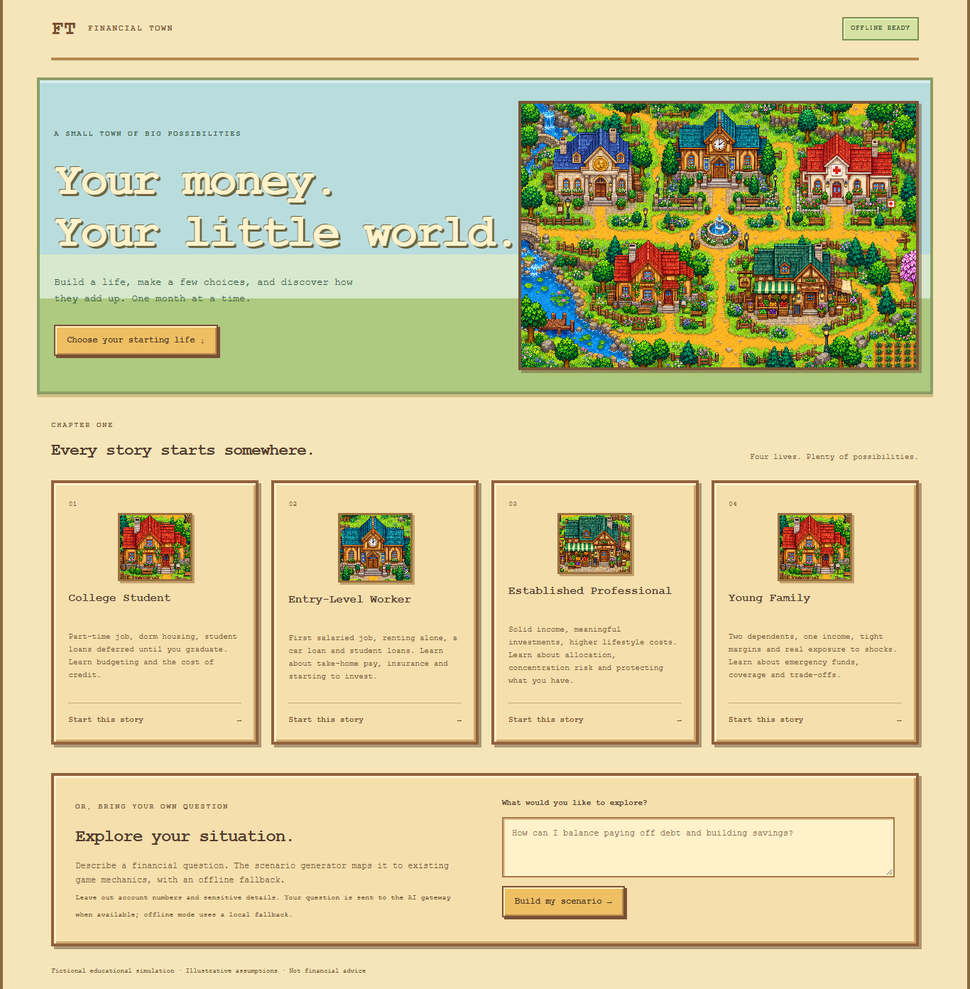
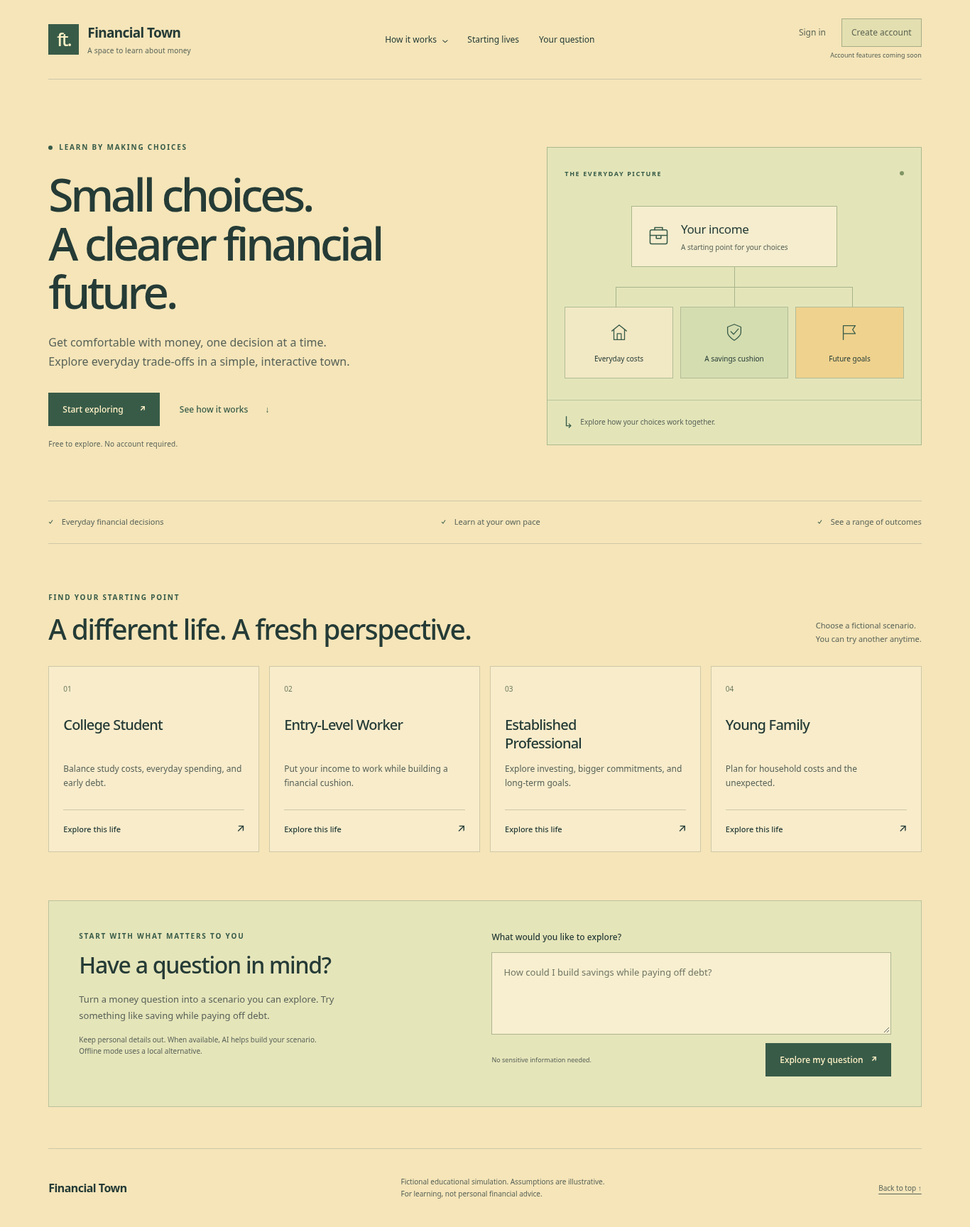
Simplify landing page with clear navigation and inactive account placeholders

diff --git a/src/styles/welcome.css b/src/styles/welcome.css
@@ -1,0 +1,17 @@
+/* Quiet, editorial landing page in the existing cream / sage / gold palette. */
+.welcome-page{--welcome-ink:#253b36;--welcome-muted:#596358;--welcome-line:#cec8a7;--welcome-paper:#f5e5b9;--welcome-green:#385b48;max-width:1600px;margin:auto;padding:0 clamp(22px,5vw,80px);background:var(--welcome-paper);color:var(--welcome-ink);font-family:Inter,ui-sans-serif,system-ui,-apple-system,BlinkMacSystemFont,'Segoe UI',sans-serif;min-height:100dvh;line-height:1.5;font-size:15px;-webkit-font-smoothing:antialiased}
+.welcome-page h1,.welcome-page h2,.welcome-page h3{font-family:inherit;font-weight:550;letter-spacing:-.04em;color:var(--welcome-ink)}
+.welcome-page p{line-height:1.7}.welcome-page a{text-decoration:none}.welcome-page button{font-family:inherit}.welcome-page :is(button,a,textarea):focus-visible{outline:3px solid var(--welcome-green);outline-offset:5px}.welcome-page :is(section,div)[id]{scroll-margin-top:24px}.welcome-skip{position:absolute;top:-100px;padding:12px;background:var(--welcome-green);color:#fff1c6;z-index:10}.welcome-skip:focus{top:10px}
+.welcome-header{min-height:112px;display:flex;align-items:center;gap:30px;border-bottom:1px solid var(--welcome-line)}.welcome-brand{display:flex;align-items:center;gap:12px;min-width:max-content;font-size:19px;font-weight:650;letter-spacing:-.6px}.welcome-brand small{display:block;margin-top:3px;font-size:10px;color:var(--welcome-muted);font-weight:400;letter-spacing:.2px}.welcome-logo{width:43px;height:43px;display:grid;place-items:center;border:1px solid var(--welcome-green);background:var(--welcome-green);color:#fff1c6;font-size:25px;letter-spacing:-2px;font-weight:500;line-height:1}.welcome-nav{display:flex;justify-content:center;align-items:center;gap:28px;flex:1}.welcome-nav-link{background:none;border:0;padding:12px 0;color:var(--welcome-ink);font-size:12px;white-space:nowrap}.welcome-nav-link:hover{text-decoration:underline;text-underline-offset:6px}.welcome-chevron{display:inline-block;margin-left:5px;transition:transform .2s}.welcome-chevron.is-open{transform:rotate(180deg)}.welcome-accounts{text-align:right}.welcome-accounts>div{display:flex;gap:8px}.welcome-accounts button{padding:10px 13px;min-height:40px;font-size:12px;background:transparent;color:#5e6655;border:1px solid transparent;opacity:1;cursor:default}.welcome-accounts button.welcome-account-create{border-color:#a7ac87;background:#e3dfb0}.welcome-accounts small{display:block;margin-top:5px;font-size:9px;color:var(--welcome-muted)}
+.welcome-how{display:grid;grid-template-rows:0fr;visibility:hidden;transition:grid-template-rows .28s ease,visibility .28s}.welcome-how.is-open{grid-template-rows:1fr;visibility:visible}.welcome-how-inner{overflow:hidden;min-height:0}.welcome-how section{padding:30px 0;border-bottom:1px solid var(--welcome-line)}.welcome-section-label{display:flex;align-items:center;gap:9px;font-size:10px;text-transform:uppercase;letter-spacing:1.8px;font-weight:650;color:var(--welcome-green)}.welcome-steps{display:grid;grid-template-columns:repeat(3,1fr);gap:40px;margin-top:24px}.welcome-step-number{color:#657a57;font-size:12px}.welcome-steps h2{font-size:20px;margin:10px 0}.welcome-steps p{color:var(--welcome-muted);font-size:13px;max-width:330px;margin:0}.welcome-how-note{font-size:11px;color:var(--welcome-muted);margin:24px 0 0}
+.welcome-hero{display:grid;grid-template-columns:1.15fr 1fr;gap:clamp(36px,7vw,100px);align-items:center;padding:88px 0 72px}.welcome-dot{height:6px;width:6px;background:var(--welcome-green);border-radius:50%}.welcome-hero h1{font-size:clamp(42px,4.7vw,72px);line-height:1.07;margin:24px 0;letter-spacing:-.065em;max-width:680px}.welcome-hero-copy>p{color:var(--welcome-muted);font-size:16px;max-width:440px;margin:0 0 30px}.welcome-hero-actions{display:flex;flex-wrap:wrap;gap:8px;align-items:center}.welcome-button{min-height:47px;display:inline-flex;justify-content:center;align-items:center;gap:24px;padding:13px 19px;border:1px solid transparent;font-size:12px;font-weight:550;background:none;text-align:center;line-height:1.5;text-decoration:none}.welcome-button-primary{color:#fff1c6;background:var(--welcome-green);border-color:var(--welcome-green)}.welcome-button-primary:hover:not(:disabled){background:#284839}.welcome-button-text{color:var(--welcome-green)}.welcome-button-text:hover{background:#ecddb1}.welcome-hero-note{display:block;margin-top:18px;font-size:10px;letter-spacing:.2px;color:var(--welcome-muted)}
+.welcome-graphic{position:relative;border:1px solid #abb98e;background:#e3e5b9;padding:30px 24px 0;min-width:0}.welcome-graphic-heading{display:flex;align-items:center;justify-content:space-between;gap:8px;margin-bottom:39px}.welcome-graphic-heading .welcome-section-label{font-size:9px;letter-spacing:1.6px}.welcome-graphic-dot{height:6px;width:6px;border-radius:50%;background:#809464}.welcome-income{display:flex;align-items:center;gap:14px;max-width:290px;margin:0 auto;background:#f5edce;border:1px solid #aab68a;padding:19px 20px;font-size:17px;letter-spacing:-.4px}.welcome-income small{display:block;margin-top:4px;font-size:10px;color:var(--welcome-muted);letter-spacing:0}.welcome-line-icon{width:35px;height:35px;color:var(--welcome-green);display:block;flex-shrink:0}.welcome-line-icon svg{width:100%;height:100%;stroke:currentColor;stroke-width:1.4;stroke-linejoin:round;stroke-linecap:round;image-rendering:auto}.welcome-connectors{height:56px;position:relative;display:flex;justify-content:space-between;margin:0 15%}.welcome-connectors:before{content:'';position:absolute;height:28px;width:1px;background:#a8b38b;top:0;left:50%}.welcome-connectors:after{content:'';position:absolute;top:28px;left:0;right:0;height:1px;background:#a8b38b}.welcome-connectors i{align-self:end;height:28px;width:1px;background:#a8b38b}.welcome-goals{display:grid;grid-template-columns:repeat(3,minmax(0,1fr));gap:10px}.welcome-goals>div{display:flex;flex-direction:column;align-items:center;text-align:center;gap:15px;padding:20px 5px 19px;background:#f1e8c4;border:1px solid #b2bb95;font-size:10px;line-height:1.5;min-width:0}.welcome-goals>div:nth-child(2){background:#d4ddb0}.welcome-goals>div:nth-child(3){background:#efd28e}.welcome-goals .welcome-line-icon{width:30px;height:30px}.welcome-graphic-footer{display:flex;align-items:center;gap:10px;border-top:1px solid #bbc39b;margin:30px -24px 0;padding:16px 24px;color:var(--welcome-muted);font-size:10px}.welcome-graphic-footer p{margin:0}.welcome-graphic-footer>span{font-size:20px;color:var(--welcome-green)}
+.welcome-benefits{display:flex;justify-content:space-between;gap:16px;border-top:1px solid var(--welcome-line);border-bottom:1px solid var(--welcome-line);padding:21px 0;font-size:11px;color:var(--welcome-muted)}.welcome-benefits i{font-style:normal;color:var(--welcome-green);margin-right:9px}
+.welcome-lives{padding:68px 0}.welcome-section-heading{display:flex;align-items:end;justify-content:space-between;gap:24px;margin-bottom:28px}.welcome-section-heading h2,.welcome-question h2{font-size:clamp(27px,3vw,39px);line-height:1.2;margin:14px 0 0}.welcome-section-heading>p{font-size:11px;color:var(--welcome-muted);margin:0}.welcome-life-grid{display:grid;grid-template-columns:repeat(4,minmax(0,1fr));gap:14px}.welcome-life-card{background:#f8eccb;border:1px solid var(--welcome-line);color:var(--welcome-ink);text-align:left;padding:24px 20px 18px;display:flex;flex-direction:column;min-width:0;transition:background .18s,border-color .18s}.welcome-life-card:hover{background:#e9e5bd;border-color:#73886b}.welcome-life-index{font-size:10px;color:#6d7a5d;margin-bottom:30px}.welcome-life-card h3{font-size:20px;line-height:1.3;margin:0 0 13px;max-width:180px;min-height:52px}.welcome-life-card p{font-size:12px;color:var(--welcome-muted);margin:0 0 26px;flex:1}.welcome-life-start{display:flex;justify-content:space-between;align-items:center;border-top:1px solid var(--welcome-line);padding-top:15px;font-size:11px;font-weight:550}.welcome-life-start>span{font-size:17px;font-weight:400}
+.welcome-question{display:grid;grid-template-columns:1fr 1.1fr;gap:70px;padding:42px;background:#e5e5ba;border:1px solid #bac29b}.welcome-question h2{font-size:32px;margin:14px 0 18px}.welcome-question p{font-size:13px;color:var(--welcome-muted);max-width:360px;margin:0 0 15px}.welcome-question small{display:block;font-size:10px;color:var(--welcome-muted);max-width:350px}.welcome-question form{display:flex;flex-direction:column;gap:12px;justify-content:center;min-width:0}.welcome-question label{font-size:12px;font-weight:550}.welcome-question textarea{width:100%;min-height:116px;max-height:300px;resize:vertical;border:1px solid #adb591;background:#f7efcf;padding:16px;color:var(--welcome-ink);font:inherit;font-size:13px;line-height:1.7}.welcome-question textarea::placeholder{color:#727766;opacity:1}.welcome-form-bottom{display:flex;gap:16px;justify-content:space-between;align-items:center}.welcome-form-bottom>span{font-size:9px;color:var(--welcome-muted)}.welcome-form-bottom .welcome-button{gap:12px;flex-shrink:0}.welcome-question .welcome-error{margin:0;color:#923f2e}
+.welcome-footer{display:flex;justify-content:space-between;align-items:center;gap:25px;padding:38px 0;margin-top:58px;border-top:1px solid var(--welcome-line);font-size:10px;color:var(--welcome-muted)}.welcome-footer-name{font-size:16px;font-weight:600;letter-spacing:-.5px;color:var(--welcome-ink)}.welcome-footer p{margin:0}.welcome-footer>a:last-child{text-decoration:underline;text-underline-offset:4px}
+@media(min-width:1601px){.welcome-page{border-left:1px solid #b5ba91;border-right:1px solid #b5ba91}}
+@media(max-width:1100px){.welcome-header{gap:20px;flex-wrap:wrap;padding:20px 0}.welcome-brand{flex:1}.welcome-nav{order:3;flex-basis:100%;justify-content:flex-start;gap:30px;border-top:1px solid var(--welcome-line);padding-top:7px}.welcome-hero{gap:36px;padding:64px 0}.welcome-hero h1{font-size:49px}.welcome-graphic{padding:24px 16px 0}.welcome-graphic-footer{margin-left:-16px;margin-right:-16px;padding-left:16px;padding-right:16px}.welcome-hero-actions{gap:0}.welcome-button{padding:12px 15px;gap:16px}.welcome-life-card{padding:21px 16px 16px}.welcome-life-card h3{font-size:18px}.welcome-question{gap:34px;padding:30px}.welcome-form-bottom{align-items:flex-start;flex-direction:column;gap:10px}}
+@media(max-width:750px){.welcome-hero{grid-template-columns:1fr;padding:46px 0 35px;gap:35px}.welcome-hero h1{font-size:clamp(43px,8vw,60px);max-width:550px}.welcome-hero-copy>p{max-width:480px;font-size:15px}.welcome-graphic{padding-top:22px}.welcome-graphic-heading{margin-bottom:24px}.welcome-income{max-width:280px}.welcome-graphic-footer{margin-top:22px}.welcome-benefits{flex-wrap:wrap;justify-content:flex-start;column-gap:30px;row-gap:12px;font-size:10px}.welcome-lives{padding:45px 0}.welcome-life-grid{grid-template-columns:repeat(2,minmax(0,1fr));gap:12px}.welcome-life-card h3{min-height:0;max-width:200px;font-size:21px}.welcome-section-heading{align-items:start;flex-direction:column;gap:13px}.welcome-section-heading>p br{display:none}.welcome-life-index{margin-bottom:23px}.welcome-question{grid-template-columns:1fr;gap:28px;padding:26px}.welcome-question p,.welcome-question small{max-width:none}.welcome-form-bottom{flex-direction:row;align-items:center}.welcome-steps{grid-template-columns:1fr;gap:22px}.welcome-steps article{position:relative;padding-left:35px}.welcome-step-number{position:absolute;left:0;top:3px}.welcome-steps h2{margin:0 0 7px}.welcome-steps p{max-width:none}.welcome-footer{margin-top:40px;flex-wrap:wrap;gap:20px;padding:28px 0}.welcome-footer-name{flex-basis:100%}.welcome-footer p{flex:1}}
+@media(max-width:420px){.welcome-page{padding:0 20px}.welcome-header{gap:16px;padding-top:19px}.welcome-brand{font-size:17px;gap:9px}.welcome-brand small{font-size:8px;letter-spacing:0}.welcome-logo{height:35px;width:35px;font-size:22px}.welcome-accounts>div{gap:2px}.welcome-accounts button{font-size:10px;padding:9px 7px;min-height:35px}.welcome-accounts small{font-size:7px}.welcome-nav{gap:25px}.welcome-nav-link{font-size:11px}.welcome-hero h1{font-size:43px;line-height:1.12;letter-spacing:-.06em;margin-top:21px}.welcome-section-label{font-size:9px;letter-spacing:1.5px}.welcome-graphic{padding-left:14px;padding-right:14px}.welcome-goals{gap:6px}.welcome-goals>div{font-size:9px;padding:17px 5px}.welcome-graphic-footer{margin-left:-14px;margin-right:-14px;padding-left:14px;padding-right:14px}.welcome-life-card{padding:18px 14px 15px}.welcome-life-card h3{font-size:18px}.welcome-life-card p{font-size:11px}.welcome-life-start{font-size:10px}.welcome-question{padding:24px 19px}.welcome-question h2{font-size:29px}.welcome-form-bottom{flex-direction:column;align-items:stretch}.welcome-form-bottom>span{font-size:9px}.welcome-footer p{font-size:9px}.welcome-footer>a:last-child{font-size:9px}}
+@media(prefers-reduced-motion:reduce){.welcome-page *, .welcome-page *:before,.welcome-page *:after{transition:none!important;scroll-behavior:auto!important}}

diff --git a/src/components/landing/Landing.tsx b/src/components/landing/Landing.tsx
@@ -1,0 +1,65 @@
+import { useState } from 'react'
+import { scenarios } from '../../data/scenarios'
+import { useGameStore } from '../../stores/useGameStore'
+
+const lifeDescriptions = [
+  'Balance study costs, everyday spending, and early debt.',
+  'Put your income to work while building a financial cushion.',
+  'Explore investing, bigger commitments, and long-term goals.',
+  'Plan for household costs and the unexpected.',
+]
+const steps = [
+  { title: 'Choose a starting point', text: 'Pick a fictional starting life or explore a question of your own.' },
+  { title: 'Make everyday choices', text: 'Visit the town to manage spending, savings, debt, and insurance. Move forward one month at a time.' },
+  { title: 'See the bigger picture', text: 'Review your decisions across 1,000 simulated paths to see how different outcomes can unfold.' },
+]
+
+/** Public landing page. Account controls are intentionally disabled placeholders. */
+export function Landing() {
+  const [howOpen, setHowOpen] = useState(false)
+  const [prompt, setPrompt] = useState('')
+  const [formError, setFormError] = useState('')
+  const store = useGameStore()
+
+  return <main className="welcome-page" id="top">
+    <a className="welcome-skip" href="#welcome-content">Skip to content</a>
+    <header className="welcome-header">
+      <a className="welcome-brand" href="#top" aria-label="Financial Town home">
+        <span className="welcome-logo" aria-hidden="true">ft.</span>
+        <span>Financial Town<small>A space to learn about money</small></span>
+      </a>
+      <nav className="welcome-nav" aria-label="Main navigation">
+        <button type="button" className="welcome-nav-link" aria-expanded={howOpen} aria-controls="how-it-works" onClick={() => setHowOpen(open => !open)}>How it works <span className={howOpen ? 'welcome-chevron is-open' : 'welcome-chevron'} aria-hidden="true">⌄</span></button>
+        <a className="welcome-nav-link" href="#starting-lives">Starting lives</a>
+        <a className="welcome-nav-link" href="#your-question">Your question</a>
+      </nav>
+      <div className="welcome-accounts">
+        <div><button type="button" disabled aria-describedby="account-placeholder">Sign in</button><button type="button" className="welcome-account-create" disabled aria-describedby="account-placeholder">Create account</button></div>
+        <small id="account-placeholder">Account features coming soon</small>
+      </div>
+    </header>
+
+    <div id="how-it-works" className={`welcome-how ${howOpen ? 'is-open' : ''}`} aria-hidden={!howOpen} inert={!howOpen}>
+      <div className="welcome-how-inner"><section aria-label="How Financial Town works"><div className="welcome-section-label">A simple way to learn</div><div className="welcome-steps">{steps.map((step, i) => <article key={step.title}><span className="welcome-step-number">0{i + 1}</span><h2>{step.title}</h2><p>{step.text}</p></article>)}</div><p className="welcome-how-note">No account or real money needed. You can start with a fictional life right away.</p></section></div>
+    </div>
+
+    <section className="welcome-hero" id="welcome-content" aria-labelledby="welcome-title">
+      <div className="welcome-hero-copy"><span className="welcome-section-label"><span className="welcome-dot"/>Learn by making choices</span><h1 id="welcome-title">Small choices.<br/>A clearer financial future.</h1><p>Get comfortable with money, one decision at a time. Explore everyday trade-offs in a simple, interactive town.</p><div className="welcome-hero-actions"><a className="welcome-button welcome-button-primary" href="#starting-lives">Start exploring <span aria-hidden="true">↗</span></a><button className="welcome-button welcome-button-text" type="button" onClick={() => { setHowOpen(true); document.getElementById('how-it-works')?.scrollIntoView({ block: 'start', behavior: window.matchMedia?.('(prefers-reduced-motion: reduce)').matches ? 'instant' : 'smooth' }) }}>See how it works <span aria-hidden="true">↓</span></button></div><span className="welcome-hero-note">Free to explore. No account required.</span></div>
+      <div className="welcome-graphic" aria-label="Income connects to everyday costs, a savings cushion, and future goals">
+        <div className="welcome-graphic-heading"><span className="welcome-section-label">The everyday picture</span><span className="welcome-graphic-dot"/></div>
+        <div className="welcome-income"><span className="welcome-line-icon" aria-hidden="true"><svg viewBox="0 0 32 32" fill="none"><rect x="5" y="8" width="22" height="18" rx="2"/><path d="M11 8V5h10v3M5 15h22M13 15v4h6v-4"/></svg></span><span>Your income<small>A starting point for your choices</small></span></div>
+        <div className="welcome-connectors" aria-hidden="true"><i/><i/><i/></div>
+        <div className="welcome-goals">{['Everyday costs', 'A savings cushion', 'Future goals'].map((label, i) => <div key={label}><span className="welcome-line-icon" aria-hidden="true"><svg viewBox="0 0 32 32" fill="none">{i === 0 ? <><path d="m5 14 11-9 11 9M8 12v15h16V12M13 27v-9h6v9"/></> : i === 1 ? <><path d="M16 4 26 8v8c0 6-10 12-10 12S6 22 6 16V8L16 4Z"/><path d="m11 15 4 4 7-8"/></> : <><path d="M7 27V6M8 6h17l-4 6 4 6H8"/></>}</svg></span><span>{label}</span></div>)}</div>
+        <div className="welcome-graphic-footer"><span aria-hidden="true">↳</span><p>Explore how your choices work together.</p></div>
+      </div>
+    </section>
+
+    <div className="welcome-benefits"><span><i aria-hidden="true">✓</i> Everyday financial decisions</span><span><i aria-hidden="true">✓</i> Learn at your own pace</span><span><i aria-hidden="true">✓</i> See a range of outcomes</span></div>
+
+    <section id="starting-lives" className="welcome-lives" aria-labelledby="starting-title"><div className="welcome-section-heading"><div><span className="welcome-section-label">Find your starting point</span><h2 id="starting-title">A different life. A fresh perspective.</h2></div><p>Choose a fictional scenario.<br/>You can try another anytime.</p></div><div className="welcome-life-grid">{scenarios.map((scenario, i) => <button type="button" className="welcome-life-card" key={scenario.scenarioId} onClick={() => store.startGame(scenario)}><span className="welcome-life-index">0{i + 1}</span><h3>{scenario.title}</h3><p>{lifeDescriptions[i] ?? scenario.description}</p><span className="welcome-life-start">Explore this life <span aria-hidden="true">↗</span></span></button>)}</div></section>
+
+    <section id="your-question" className="welcome-question" aria-labelledby="question-title"><div><span className="welcome-section-label">Start with what matters to you</span><h2 id="question-title">Have a question in mind?</h2><p>Turn a money question into a scenario you can explore. Try something like saving while paying off debt.</p><small>Keep personal details out. When available, AI helps build your scenario. Offline mode uses a local alternative.</small></div><form onSubmit={async e => { e.preventDefault(); setFormError(''); try { const result = await store.generatePersonalized(prompt); store.startGame(result.config) } catch (error) { setFormError(error instanceof Error ? error.message : 'We couldn’t prepare that scenario. Please try again.') } }}><label htmlFor="situation">What would you like to explore?</label><textarea id="situation" value={prompt} onChange={e => setPrompt(e.target.value)} placeholder="How could I build savings while paying off debt?" required maxLength={1000}/><div className="welcome-form-bottom"><span>No sensitive information needed.</span><button type="submit" className="welcome-button welcome-button-primary" disabled={store.personalizationLoading}>{store.personalizationLoading ? 'Preparing your scenario…' : 'Explore my question'}<span aria-hidden="true">↗</span></button></div>{(formError || store.personalizationError) && <p role="alert" className="welcome-error">{formError || store.personalizationError}</p>}</form></section>
+
+    <footer className="welcome-footer"><a className="welcome-footer-name" href="#top">Financial Town</a><p>Fictional educational simulation. Assumptions are illustrative.<br/>For learning, not personal financial advice.</p><a href="#top">Back to top ↑</a></footer>
+  </main>
+}

diff --git a/src/App.tsx b/src/App.tsx
@@ -1,13 +1,13 @@
-import { useState, type ReactNode } from 'react'
-import { scenarios } from './data/scenarios'
+import { type ReactNode } from 'react'
 import { GameClock, NotificationStack, monthLabel, usd } from './components/flow'
 import { selectDebtTotal, selectNetWorth, useGameStore, type FinishPayload } from './stores/useGameStore'
-import { TownScene, BuildingSprite, TOWN_ART } from './components/town/TownScene'
+import { TownScene } from './components/town/TownScene'
 import { PanelHost } from './components/town/PanelHost'
 import { GameShell } from './components/layout/GameShell'
 import type { BuildingId } from './types/domain'
 import { ConnectedBuildingPanel } from './components/panels/ConnectedBuildingPanel'
 import EngineHarness from './dev/EngineHarness'
+import { Landing } from './components/landing/Landing'
 
 // Agent 3 supplies controlled panels. Agent 5 mounts its computed reveal here.
 export interface AppProps {
@@ -19,18 +19,10 @@ export default function App(props: AppProps) {
   return <Town {...props}/>
 }
 function Town({ panels = {}, renderReveal }: AppProps) {
-  const [prompt, setPrompt] = useState('')
-  const [formError, setFormError] = useState('')
   const store = useGameStore()
   const netWorth = useGameStore(selectNetWorth)
   const debt = useGameStore(selectDebtTotal)
-  if (!store.game || !store.config) return <main className="town-landing">
-    <header className="landing-nav"><a className="wordmark" href="#">FT<span>FINANCIAL TOWN</span></a><span className="offline-tag">OFFLINE READY</span></header>
-    <section className="landing-hero"><span className="eyebrow">A SMALL TOWN OF BIG POSSIBILITIES</span><h1>Your money.<br/>Your little world.</h1><p>Build a life, make a few choices, and discover how they add up. One month at a time.</p><a className="pixel-button pixel-button--gold" href="#starting-lives">Choose your starting life ↓</a><div className="hero-village illustrated-hero" aria-hidden="true"><img src={TOWN_ART} alt="" width="1536" height="1024"/></div></section>
-    <section id="starting-lives" className="starting-lives"><div className="section-heading"><div><span className="eyebrow">CHAPTER ONE</span><h2>Every story starts somewhere.</h2></div><span>Four lives. Plenty of possibilities.</span></div><div className="life-grid">{scenarios.map((s,i) => <button className="life-card pixel-panel" key={s.scenarioId} onClick={() => store.startGame(s)}><span className="life-number">0{i+1}</span><BuildingSprite building={(['home','office','market','home'] as BuildingId[])[i] ?? 'home'}/><h3>{s.title}</h3><p>{s.description}</p><span className="life-start">Start this story <span>→</span></span></button>)}</div></section>
-    <section className="personalization pixel-panel"><div><span className="eyebrow">OR, BRING YOUR OWN QUESTION</span><h2>Explore your situation.</h2><p>Describe a financial question. The scenario generator maps it to existing game mechanics, with an offline fallback.</p><small>Leave out account numbers and sensitive details. Your question is sent to the AI gateway when available; offline mode uses a local fallback.</small></div><form onSubmit={async e => { e.preventDefault(); setFormError(''); try { const result = await store.generatePersonalized(prompt); store.startGame(result.config) } catch (error) { setFormError(error instanceof Error ? error.message : 'Could not prepare your scenario.') } }}><label htmlFor="situation">What would you like to explore?</label><textarea id="situation" value={prompt} onChange={e => setPrompt(e.target.value)} placeholder="How can I balance paying off debt and building savings?" required maxLength={1000}/><button className="pixel-button pixel-button--gold" disabled={store.personalizationLoading}>{store.personalizationLoading ? 'Preparing…' : 'Build my scenario →'}</button>{(formError || store.personalizationError) && <p role="alert">{formError || store.personalizationError}</p>}</form></section>
-    <footer className="simulation-footer">Fictional educational simulation · Illustrative assumptions · Not financial advice</footer>
-  </main>
+  if (!store.game || !store.config) return <Landing/>
   const { game, config } = store
   const panel = store.openBuildingId
   return <GameShell topBar={<header className="town-hud"><div className="hud-brand"><span className="brand-mark">FT</span><div className="wordmark">FINANCIAL TOWN<small>{config.title}</small></div></div><dl className="hud-stats"><div className="hud-date"><dt>{monthLabel(config.startMonth,game.monthIndex)}</dt><dd>Month {game.monthIndex} / {config.durationMonths}</dd></div><div><dt>Cash</dt><dd>{usd(game.cash)}</dd></div><div><dt>Savings</dt><dd>{usd(game.savings)}</dd></div><div><dt>Debt</dt><dd>{usd(debt)}</dd></div><div className="hud-net"><dt>Net worth</dt><dd>{usd(netWorth)}</dd></div></dl><button className="pixel-button" onClick={store.openTimeline}>Timeline ↗</button></header>} toasts={<div className="activity-area"><NotificationStack notifications={game.notifications} onOpenBuilding={store.openBuilding} onViewAll={()=>store.setHistoryOpen(true)} onDismiss={store.markNotificationRead}/></div>}>

diff --git a/tests/town.browser.ts b/tests/town.browser.ts
@@ -37,7 +37,7 @@ test('town navigation, focus, month tick, history and finish', async ({ page }, 
   const errors: string[] = []
   page.on('pageerror', e => errors.push(e.message))
   await page.goto('/')
-  await expect(page.getByRole('heading', { name: 'Your money. Your little world.' })).toBeVisible()
+  await expect(page.getByRole('heading', { name: 'Small choices. A clearer financial future.' })).toBeVisible()
   await expect(page.locator('body')).toHaveJSProperty('scrollWidth', await page.evaluate(() => innerWidth))
   await page.screenshot({ path: `docs/screenshots/${testInfo.project.name}-landing.png`, fullPage: true })
   await page.getByRole('button', { name: /Entry-Level Worker/ }).click()
@@ -81,6 +81,26 @@ test('town navigation, focus, month tick, history and finish', async ({ page }, 
   await page.getByRole('button', { name: /Finish & reveal/ }).click()
   await expect(page.getByRole('dialog', { name: 'Your next chapter' })).toContainText('Same strategy, 1,000 futures')
   await page.getByRole('button', { name: /Choose a new story/ }).click()
-  await expect(page.getByRole('heading', { name: 'Your money. Your little world.' })).toBeVisible()
+  await expect(page.getByRole('heading', { name: 'Small choices. A clearer financial future.' })).toBeVisible()
   expect(errors).toEqual([])
+})
+
+
+test('landing navigation expands instructions and keeps account placeholders inactive', async ({ page }) => {
+  await page.goto('/')
+  const how = page.getByRole('button', { name: 'How it works', exact: true })
+  await expect(how).toHaveAttribute('aria-expanded', 'false')
+  await expect(page.getByRole('heading', { name: 'Choose a starting point' })).not.toBeVisible()
+  await how.click()
+  await expect(how).toHaveAttribute('aria-expanded', 'true')
+  await expect(page.getByRole('heading', { name: 'Choose a starting point' })).toBeVisible()
+  await how.click()
+  await expect(how).toHaveAttribute('aria-expanded', 'false')
+  await expect(page.getByRole('heading', { name: 'Choose a starting point' })).not.toBeVisible()
+  await expect(page.getByRole('button', { name: 'Sign in', exact: true })).toBeDisabled()
+  await expect(page.getByRole('button', { name: 'Create account', exact: true })).toBeDisabled()
+  await page.getByRole('link', { name: 'Starting lives', exact: true }).click()
+  await expect(page).toHaveURL(/#starting-lives$/)
+  await expect(page.getByRole('button', { name: /College Student/ })).toBeVisible()
+  await expect(page.locator('body')).toHaveJSProperty('scrollWidth', await page.evaluate(() => innerWidth))
 })

diff --git a/src/styles/index.css b/src/styles/index.css
@@ -5,3 +5,5 @@
 @import './illustrated-town.css';
 
 .pixel-sprite, .town-backdrop, .town-hotspot svg { image-rendering: pixelated; }
+
+@import './welcome.css';
